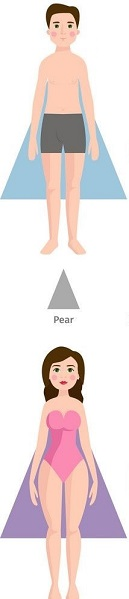
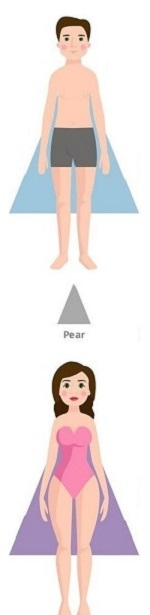
Questionnaire images - radio

Changed region(s): [[0.0, 0.0, 0.9922, 1.0], [0.4651, 0.3306, 0.5271, 0.3907]]

diff --git a/query.html b/query.html
@@ -38,12 +38,12 @@
   <section class="instruction" id="instruction">
     <div class="box-quest">
       <h2>Instructions</h2>
-      <p></br></p>
+      <h3></h3></br>
       <p>Through modern data analysis techniques,<br> we offer a personalized training taking into account your
         characteristics and interests.</p>
       <p>This questionnaire is made up of X questions.</p>
-      <p><span class="attention"><strong>ATTENTION:</strong></span> All responses must be completed.</p>
-      <h2></h2>
+      <p><span class="attention"><strong>ATTENTION:</strong></span> All responses must be completed.</p></br>
+      <h3></h3>
     </div>
   </section>
   <hr>
@@ -51,7 +51,7 @@
   <section class="q1" id="q1">
     <div class="box-quest">
       <h2>Frequency</h2>
-      <p></br></p>
+      <h3></h3></br>
       <p>How often will you perform physical activity?</p></br>
       <div class="freq-box">
         <input id="1" name="freq" value="1" type="radio"> &nbsp Once a week </br>
@@ -68,7 +68,7 @@
   <section class="q2" id="q2">
     <div class="box-quest">
       <h2>Interest</h2>
-      <p></br></p>
+      <h3></h3></br>
       <p>What is your goal?</p></br>
       <div class="freq-box">
 
@@ -91,11 +91,10 @@
   <section class="q3" id="q3">
     <div class="box-quest">
       <h2>Biotype</h2>
-      <p></br></p>
+      <h3></h3></br>
       <p>Select a picture that most closely matches your body type:</p></br>
       <div class="freq-box">
-
-        <input type="radio" name="shape" id="s1" />
+        <input type="radio" name="shape" class="s1" id="s1" />
         <label for="s1"><img src="/images/body/pear.jpg" alt=""></label>
         <input type="radio" name="shape" id="s2" />
         <label for="s2"><img src="/images/body/invertedTriangle.jpg" alt=""></label>
@@ -105,36 +104,15 @@
         <label for="s4"><img src="/images/body/rectangle.jpg" alt=""></label>
         <input type="radio" name="shape" id="s5" />
         <label for="s5"><img src="/images/body/hourglass.jpg" alt=""></label>
-
-        <!--
-        <div class="body">
-          <div class="pear">
-            <img src="/images/body/pear.jpg">
-            <input id="1" name="shape" value="1" type="radio"> &nbsp Pear
-          </div>
-          <div class="invertedTriangle">
-            <img src="/images/body/invertedTriangle.jpg">
-            <input id="2" name="shape" value="2" type="radio"> &nbsp Inverted Triangle
-          </div>
-          <div class="apple">
-            <img src="/images/body/apple.jpg">
-            <input id="3" name="shape" value="3" type="radio"> &nbsp Apple
-          </div>
-          <div class="rectangle">
-            <img src="/images/body/rectangle.jpg">
-            <input id="4" name="shape" value="4" type="radio"> &nbsp Rectangle
-          </div>
-          <div class="hourglass">
-            <img src="/images/body/hourglass.jpg">
-            <input id="5" name="shape" value="5" type="radio"> &nbsp Hourglass
-          </div>
-        </div> -->
       </div>
     </div>
   </section>
   <hr>
   <!--End Questionnaire Section-->
 
+
+  <!--Begin Button Section-->
+  <!--End Button Section-->
 
   <!--Begin Footer Section-->
   <footer>

diff --git a/css/style.css b/css/style.css
@@ -609,26 +609,40 @@ footer span a:hover {
 h2 {
   color: #ffffff;
   padding: 8px 4px;
+}
+h3 {
   border-bottom: 2px solid #c11325;
 }
 /*####################################*/
-/*input[type='radio'] {
+#s1,
+#s2,
+#s3,
+#s4,
+#s5 {
   visibility: hidden;
-}*/
+}
 
 label {
   display: block;
-  border: 4px solid #666;
-  width: 60px;
+  border: 5px solid #333333;
+  border-radius: 10px;
+  width: 110px;
   float: left;
+  padding: 2px;
 }
 
 input[type='radio']:checked + label {
-  border-color: #c11325;
+  border-color: #000000;
+  border-radius: 10px;
+  padding: 0;
 }
 img {
-  height: 50px;
+  border-radius: 6px;
+  align-content: center;
+  position: relative;
+  width: 100%;
 }
+
 /*####################################*/
 
 /* End Questionnaire Section*/
